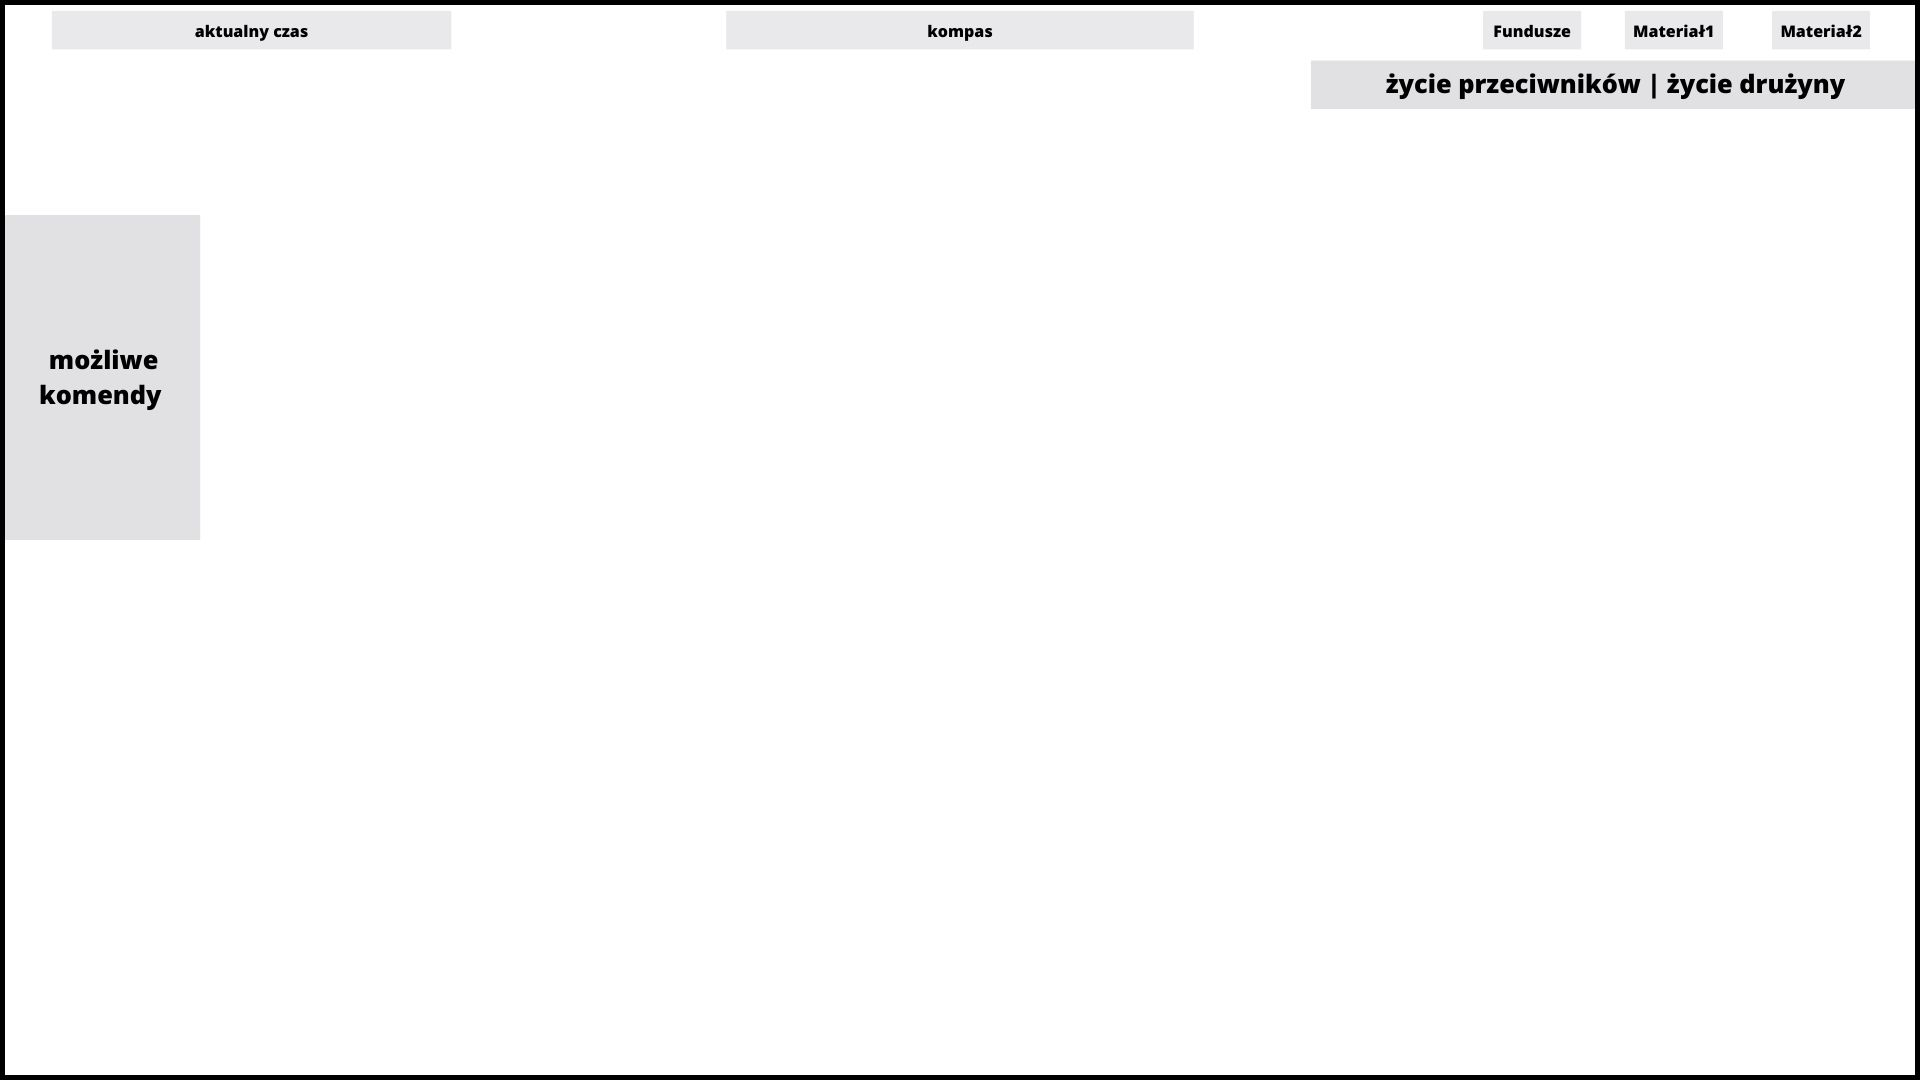
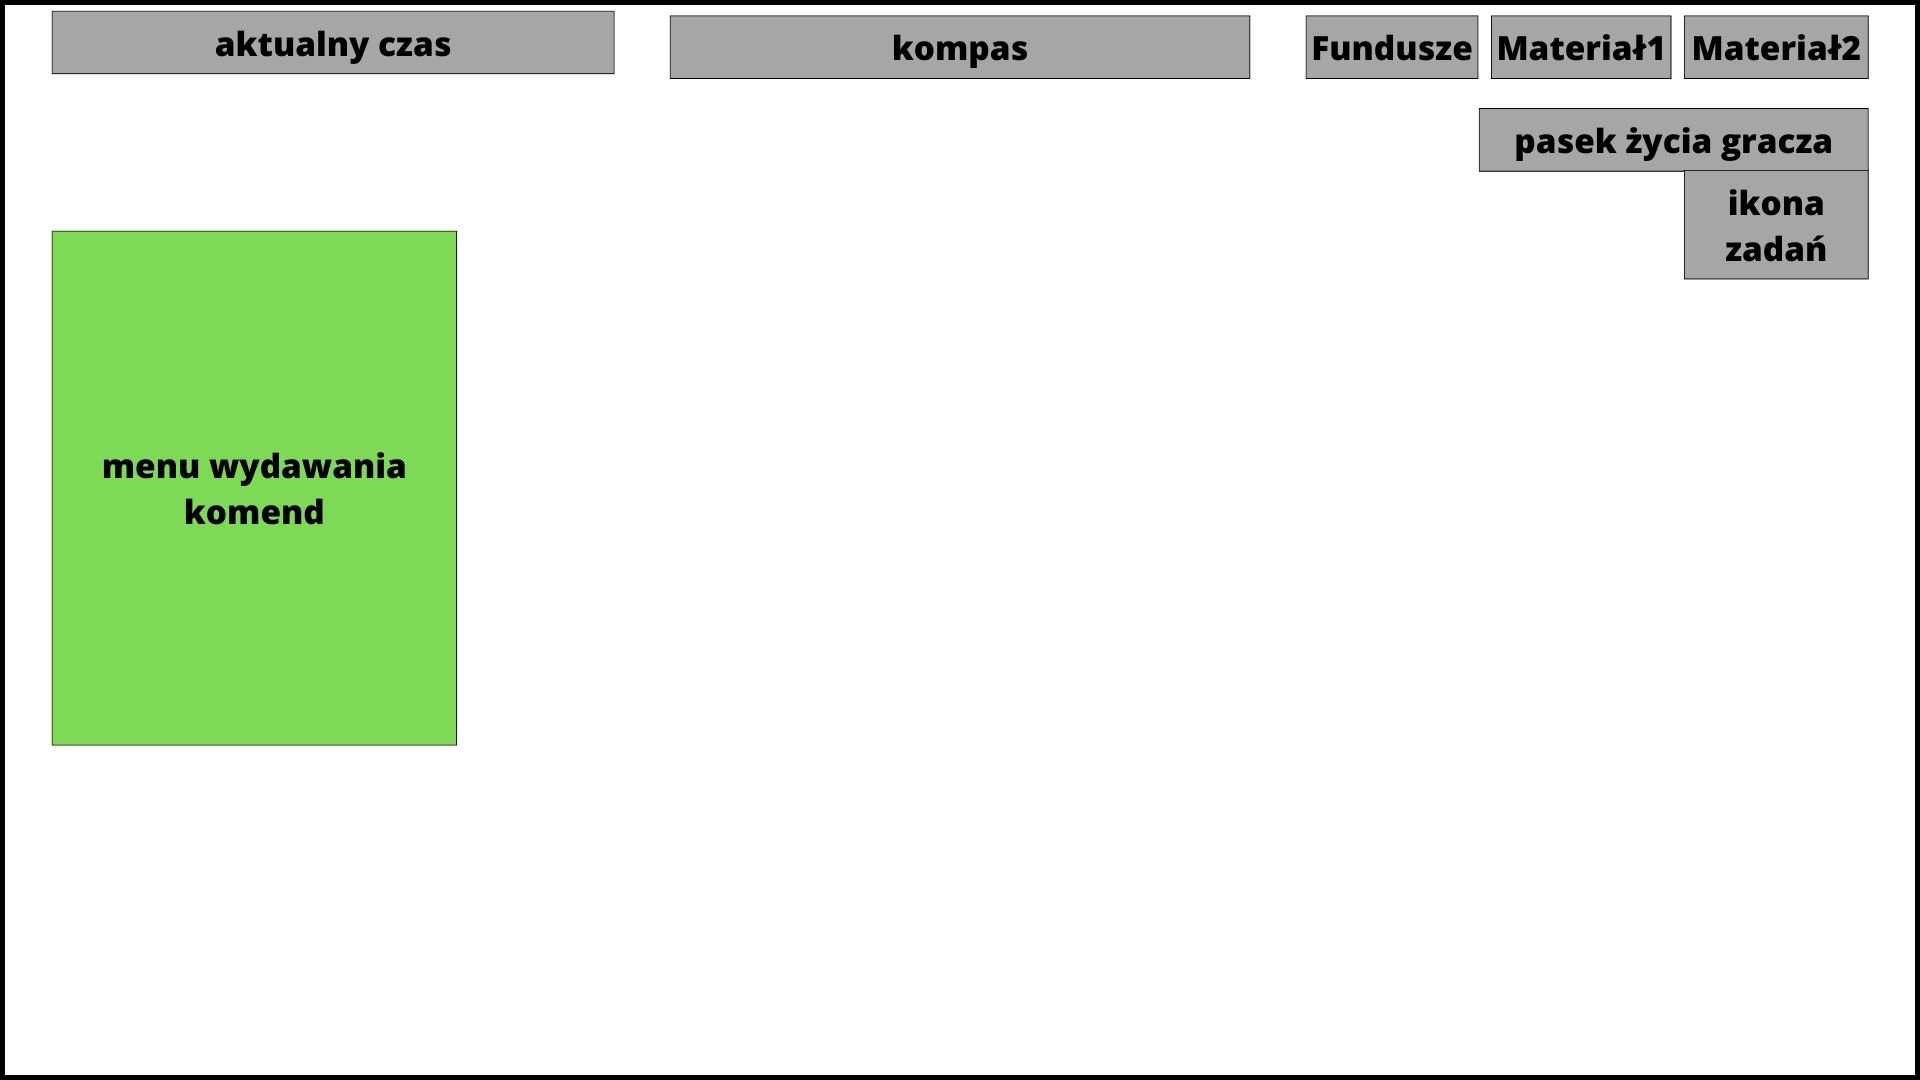
added project graphics

Changed region(s): [[0.0, 0.1833, 0.25, 0.7028], [0.0, 0.0, 1.0, 0.275]]

diff --git a/docs/chapters/projekt/ui_proj.tex b/docs/chapters/projekt/ui_proj.tex
@@ -1,6 +1,14 @@
 \section{Interfejs użytkownika (Zofia Sosińska)}\label{chap:ui}
 Projekt interfejsu użytkownika przewiduje tryb podstawowy z zawsze widocznymi elementami oraz dynamicznie pojawiające okna, wywoływane za pomocą konkretnych klawiszy. 
- Zadaniem każdej składowej nich będzie odzwierciedlenie pewnego skrawka aktualnego stanu wiedzy granej postaci z naciskiem na najpotrzebniejsze w danej chwili informacje.
+ Zadaniem każdej składowej nich będzie odzwierciedlenie pewnego skrawka aktualnego stanu wiedzy granej postaci z naciskiem na najpotrzebniejsze w danej chwili informacje. Przewidziane są:
+ \begin{itemize}
+    \item menu stawiania budynków; 
+    \item menu wydawania komend;
+    \item menu zapisu;
+    \item informacja o możliwej interakcji;
+    \item dziennik z zadaniami;
+    \item ekran końca gry.
+\end{itemize}
 	
 \subsection{Interfejs podstawowy}
 Interfejs podstawowy przewiduje funkcje, takie jak pokazanie:
@@ -28,8 +36,7 @@ Szacowany projekt interfejsu podstawowego UI wyświetlono na rysunku \ref{fig:ui
  W menu stawiania budynków informacje wcześniej przedstawione zostaną na ekranie. Dodatkowo pokażą nam się dostępne do zbudowania budynki, a po wybraniu pojawią się przed nami. Po zatwierdzeniu budynek zostanie wybudowany.
 	Inspiracją do przedstawienia dostępnych budowli jest rozwiązanie gry Orcs must die!, przedstawione w rozdziale \ref{chap:omd}
 
-
-Szacowany projekt trybu budowania UI wyświetlono na rysunku \ref{fig:ui_bud} .
+Szacowany projekt trybu budowania UI wyświetlono na rysunku \ref{fig:ui_bud}.
 \begin{figure}[htbp]
     \centering
     \includegraphics[width=0.9\textwidth]{images/ui/ui_proj_budowanie.jpg}
@@ -41,7 +48,7 @@ Szacowany projekt trybu budowania UI wyświetlono na rysunku \ref{fig:ui_bud} .
 
 \begin{figure}[htbp]
     \centering
-    \includegraphics[width=0.9\textwidth]{images/ui/opis_ekementow_mwnu_wyboru_komendy.png}
+    \includegraphics[width=0.9\textwidth]{images/ui/ui_proj_walka.jpg}
     \caption{Implementacja menu wydawania komend.}\label{fig:cmd_menu}
 \end{figure}
 
@@ -49,7 +56,7 @@ Szacowany projekt trybu budowania UI wyświetlono na rysunku \ref{fig:ui_bud} .
 
 \begin{figure}[htbp]
     \centering
-    \includegraphics[width=0.9\textwidth]{images/ui/menu_zapisu.png}
+    \includegraphics[width=0.9\textwidth]{images/ui/ui_proj_zapis.jpg}
     \caption{Implementacja menu zapisu.}\label{fig:men_zap}
 \end{figure}
 
@@ -57,20 +64,15 @@ Szacowany projekt trybu budowania UI wyświetlono na rysunku \ref{fig:ui_bud} .
 
     \begin{figure}[htbp]
     \centering
-    \includegraphics[width=0.9\textwidth]{images/ui/interakcja_rozmowa.png}
+    \includegraphics[width=0.9\textwidth]{images/ui/ui_prooj_interakcja.jpg}
     \caption{Implementacja grafiki informującej o możliwym zaczęciu rozmowy.}\label{fig:rozmow}
-\end{figure}
-\begin{figure}[htbp]
-    \centering
-    \includegraphics[width=0.9\textwidth]{images/ui/interakcja_podnieś.png}
-    \caption{Implementacja grafiki informującej o możliwym podniesieniu przedmiotu.}\label{fig:przedmio}
 \end{figure}
 
 \subsection{Dziennik z zadaniami}
 
 \begin{figure}[htbp]
     \centering
-    \includegraphics[width=0.9\textwidth]{images/ui/journal_quest.png}
+    \includegraphics[width=0.9\textwidth]{images/ui/ui_proj_dziennik_zadan.jpg}
     \caption{Implementacja dziennika z aktualnie zaczętym i nieukończonym zadaniem.}\label{fig:end_sc}
 \end{figure}
 
@@ -78,6 +80,6 @@ Szacowany projekt trybu budowania UI wyświetlono na rysunku \ref{fig:ui_bud} .
 
 \begin{figure}[htbp]
     \centering
-    \includegraphics[width=0.9\textwidth]{images/ui/endgame_screen.png}
+    \includegraphics[width=0.9\textwidth]{images/ui/ui_prooj_koniec_gry.jpg}
     \caption{Implementacja menu zapisu.}\label{fig:end_sc}
 \end{figure}
